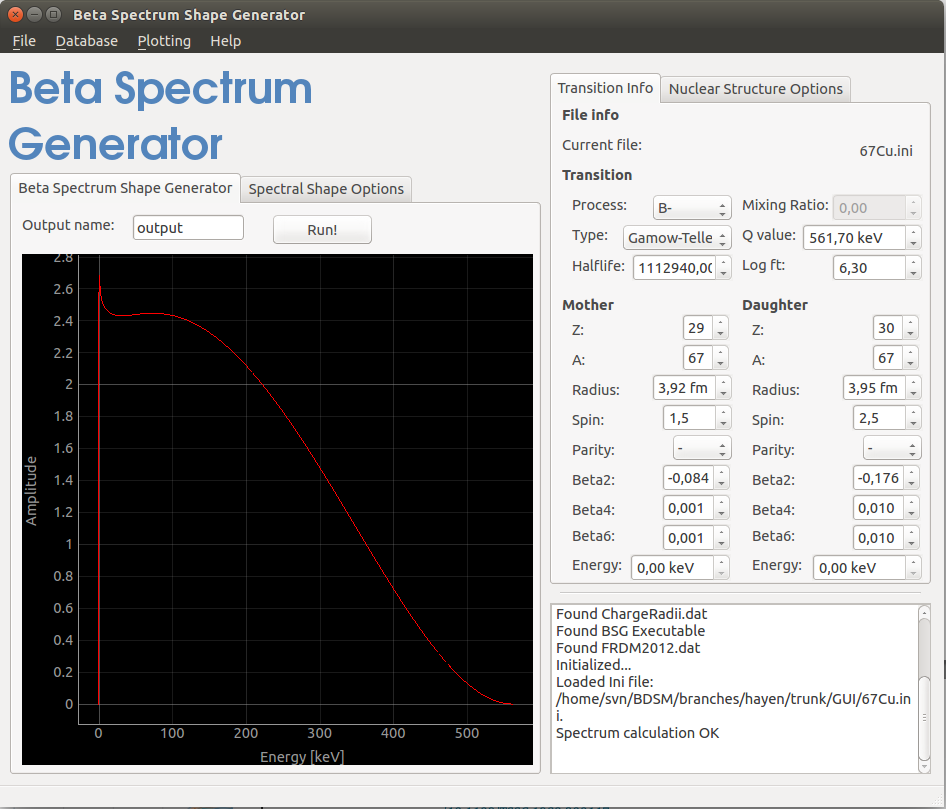
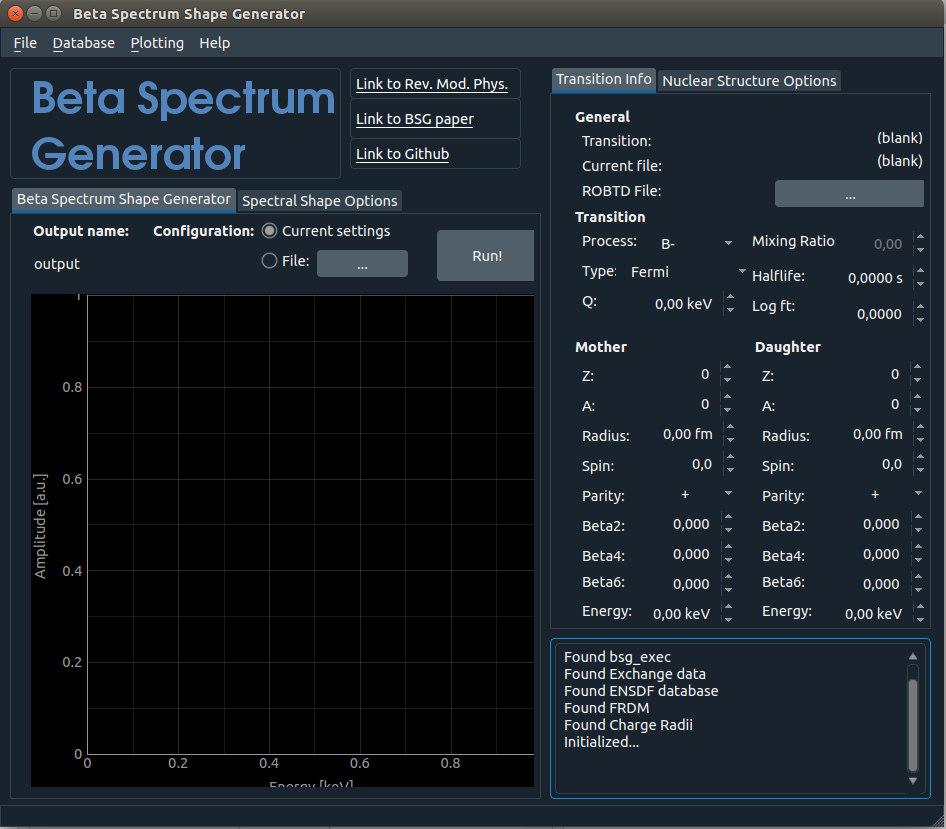
Bug fixes and general changes

diff --git a/source/executables/bsg_gui/bsg_gui/utils/utilities.py b/source/executables/bsg_gui/bsg_gui/utils/utilities.py
@@ -11,7 +11,7 @@ import ConfigParser
 
 ''' General variables and utility functions '''
 
-atoms = ['H', 'He', 'Li', 'Be', 'B', 'C', 'N', 'O', 'F', 'Ne', 'Na', 'Mg', 'Al', 'Si', 'P', 'S', 'Cl', 'Ar', 'K', 'Ca',
+atoms = ['Nn', 'H', 'He', 'Li', 'Be', 'B', 'C', 'N', 'O', 'F', 'Ne', 'Na', 'Mg', 'Al', 'Si', 'P', 'S', 'Cl', 'Ar', 'K', 'Ca',
          'Sc', 'Ti',
          'V', 'Cr', 'Mn', 'Fe', 'Co', 'Ni', 'Cu', 'Zn', 'Ga', 'Ge', 'As', 'Se', 'Br', 'Kr', 'Rb', 'Sr', 'Y', 'Zr', 'Nb',
          'Mo', 'Tc', 'Ru', 'Rh',
@@ -208,16 +208,16 @@ def getENSDFBetaBranches(filename, Z, A, state):
 
     """
     import ensdf
-
     logger = logging.getLogger(__name__)
 
-    daugtherNameBetaM = '%3s' % str(A) + atoms[Z].upper()
-    daughterNameBetaP = '%3s' % str(A) + atoms[Z-2].upper()
-    parentName = '%3s' % str(A) + atoms[Z - 1].upper()
+    daughterNameBetaM = '%3s' % str(A) + atoms[Z+1].upper()
+    daughterNameBetaP = '%3s' % str(A) + atoms[Z-1].upper()
+    parentName = '%3s' % str(A) + atoms[Z].upper()
 
     decays = ensdf.decays(filename)
     levels = ensdf.levels(filename)
     qvals = ensdf.qvalues(filename)
+
 
     levels = removeDuplicateLevels(levels)
 
@@ -244,9 +244,8 @@ def getENSDFBetaBranches(filename, Z, A, state):
     try:
         qBetaM, dqBetaM = [q[1:] for q in qvals if q[0] / 1000 == ZA][0]
     except IndexError:
-        print("IndexError on q value for %s Z%d A%d S%d %s" % (atoms[Z-1], Z, A, state, filename))
+        print("IndexError on q value for %s Z%d A%d S%d %s" % (atoms[Z], Z, A, state, filename))
         return 0., list()
-
     if dqBetaM is None:
         dqBetaM = 0.
 
@@ -267,14 +266,13 @@ def getENSDFBetaBranches(filename, Z, A, state):
                     qBetaM = d[5]
                 else:
                     qBetaP = d[5]
-
     for cd in correctDecays:
         for l in levels:
             try:
                 # Level is equal to daughter level from correct decays
                 if l[0] == cd[1]:
                     q, dq = (qBetaM, dqBetaM) if l[0] > cd[0] else (qBetaP, dqBetaP)
-                    name = daugtherNameBetaM if l[0] > cd[0] else daughterNameBetaP
+                    name = daughterNameBetaM if l[0] > cd[0] else daughterNameBetaP
                     BR, dBR, logft = cd[4:7]
 
                     if BR == None:

diff --git a/source/nme/src/NuclearStructureManager.cc b/source/nme/src/NuclearStructureManager.cc
@@ -205,18 +205,19 @@ bool NS::NuclearStructureManager::BuildDensityMatrixFromFile(
   else {
     std::vector<std::vector<std::string> > dataList = GeneralUtilities::GetCSVData(filename, ",");
     for (auto const& line : dataList) {
-      if (line.size() < 7) {
+      if (line.size() < 8) {
         consoleLogger->error("Density Matrix File {} incomplete! Aborting.",
                              filename);
         exit(EXIT_FAILURE);
       }
-      int djf = atoi(line[0].c_str());
-      int nf = atoi(line[1].c_str());
-      int lf = atoi(line[2].c_str());
-      int dji = atoi(line[3].c_str());
-      int ni = atoi(line[4].c_str());
-      int li = atoi(line[5].c_str());
-      double obdme = atof(line[6].c_str());
+      int dJ = atoi(line[0].c_str());
+      int djf = atoi(line[1].c_str());
+      int nf = atoi(line[2].c_str());
+      int lf = atoi(line[3].c_str());
+      int dji = atoi(line[4].c_str());
+      int ni = atoi(line[5].c_str());
+      int li = atoi(line[6].c_str());
+      double obdme = atof(line[7].c_str());
       WFComp fW = {1.0, nf, lf, std::abs(djf) - 2 * lf};
       WFComp iW = {1.0, ni, li, std::abs(dji) - 2 * li};
       std::vector<WFComp> fComps = {fW};
@@ -225,8 +226,7 @@ bool NS::NuclearStructureManager::BuildDensityMatrixFromFile(
                                   -betaType, 0.0, fComps};
       SingleParticleState spsi = {mother.dJ, -1, sign(mother.dJ), li, ni, 0,
                                   betaType, 0.0, iComps};
-      //TODO
-      AddReducedOneBodyTransitionDensity(1, obdme, dji, djf, spsi, spsf);
+      AddReducedOneBodyTransitionDensity(dJ, obdme, dji, djf, spsi, spsf);
     }
   }
   debugFileLogger->debug("Leaving BuildDensityMatrixFromFile");
@@ -332,6 +332,8 @@ void NS::NuclearStructureManager::GetESPStates(SingleParticleState& spsi,
   }
 
   double threshold = GetNMEOpt(double, Computational.EnergyMargin);
+
+  debugFileLogger->debug("Threshold: {} MeV", threshold);
 
   debugFileLogger->debug("Found all spin constants");
 

diff --git a/source/executables/bsg_gui/bsg_gui/bsg_gui.py b/source/executables/bsg_gui/bsg_gui/bsg_gui.py
@@ -312,7 +312,7 @@ class BSG_UI(QtGui.QMainWindow):
         import re
         A = int(re.findall(r'\d+', isotope)[0])
         name = isotope.replace(str(A), '').capitalize()
-        Z = ut.atoms.index(name)+1
+        Z = ut.atoms.index(name)
 
         self.ui.sb_AM.setValue(A)
         self.ui.sb_ZM.setValue(Z)
@@ -355,12 +355,13 @@ class BSG_UI(QtGui.QMainWindow):
                 self.ensdfFolder = None
                 return
         fullPath = self.ensdfFolder + '/ensdf.{:03d}'.format(A)
-
+        print(fullPath)
         bbs = ut.getENSDFBetaBranches(str(fullPath), Z, A, 0)
+        print(bbs)
         items = []
         for i in bbs:
-            s = '{}: {}{} ([{}] {}) -> {}{} ([{}] {}); Endpoint: {} keV, t1/2: {:.3f} s'.format(i.process, A, ut.atoms[Z-1], i.motherLevel.Jpi, i.motherLevel.E,\
-            A, ut.atoms[Z if i.process == 'B-' else Z-2], i.daughterLevel.Jpi, i.daughterLevel.E, i.E, i.partialHalflife)
+            s = '{}: {}{} ([{}] {}) -> {}{} ([{}] {}); Endpoint: {} keV, t1/2: {:.3f} s'.format(i.process, A, ut.atoms[Z], i.motherLevel.Jpi, i.motherLevel.E,\
+            A, ut.atoms[Z+1 if i.process == 'B-' else Z-1], i.daughterLevel.Jpi, i.daughterLevel.E, i.E, i.partialHalflife)
 
             items.append(s)
 
@@ -428,8 +429,8 @@ class BSG_UI(QtGui.QMainWindow):
         JpiM += self.ui.cb_PiM.currentText()
         JpiD = str(int(self.ui.dsb_JD.value())) if self.ui.dsb_JD.value() % 1 == 0. else str(int(2*self.ui.dsb_JD.value())) + '/2'
         JpiD += self.ui.cb_PiD.currentText()
-        s = '{}{} ([{}] {}) -> {}{} ([{}] {})'.format(Am, ut.atoms[Zm-1],
-        JpiM, self.ui.dsb_motherEn.value(), Ad, ut.atoms[Zd-1],
+        s = '{}{} ([{}] {}) -> {}{} ([{}] {})'.format(Am, ut.atoms[Zm],
+        JpiM, self.ui.dsb_motherEn.value(), Ad, ut.atoms[Zd],
         JpiD, self.ui.dsb_daughterEn.value())
         self.ui.l_transitionName.setText(s)
         self.ui.l_transitionName.setToolTip(s)

diff --git a/source/executables/bsg_gui/bsg_gui/utils/ensdf.py b/source/executables/bsg_gui/bsg_gui/utils/ensdf.py
@@ -8,7 +8,7 @@ import re
 import sys
 import copy
 from collections import defaultdict
-from pyneUtils import time_conv_dict, to_id, id_from_level
+from pyneUtils import time_conv_dict
 from warnings import warn
 
 from utilities import atoms
@@ -61,6 +61,29 @@ def _getvalue(obj, fn=float, rn=None):
         return fn(x)
     except ValueError:
         return rn
+
+def to_id(nuc):
+    nuc = nuc.strip()
+    n = _nucleus.match(nuc)
+    nucid = 0
+    if n:
+        A = int(n.group(1))
+        Z = int(atoms.index(n.group(2).capitalize()))
+        nucid = (1000 * Z + A) * 1000
+    return nucid
+
+def id_from_level(nuc, level, levellist, special=' '):
+    nostate = int(nuc / 1000) * 1000
+    if not levellist:
+        return None
+    ret_id = nuc
+    minDif = 1e9
+    for l in levellist:
+        if int(l[0] / 1000 ) * 1000 == nostate:
+             if abs(l[5] - level) < minDif and special == l[-1]:
+                 minDif = abs(l[5] - level)
+                 ret_id = l[0]
+    return ret_id
 
 # Energy to half-life conversion:  T1/2= ln(2) x (h/2 pi) / energy
 # See http://www.nndc.bnl.gov/nudat2/help/glossary.jsp#halflife

diff --git a/source/nme/include/NilssonOrbits.h b/source/nme/include/NilssonOrbits.h
@@ -807,6 +807,8 @@ inline SingleParticleState CalculateDeformedSPState(int Z, int N, int A, int dJ,
     index = (Z + N - 1) / 2;
     if (threshold > 0) {
       double refEnergy = allStates[index].energy;
+      spdlog::get("nme_results_file")->info("Estimated reference state: {}/2 ({} MeV)", allStates[index].parity * allStates[index].dO,
+      allStates[index].energy);
       index = 0;
       for (int i = 0; i < allStates.size(); i++) {
         if (std::abs(refEnergy - allStates[i].energy) <= threshold) {
@@ -818,8 +820,9 @@ inline SingleParticleState CalculateDeformedSPState(int Z, int N, int A, int dJ,
         }
       }
       if (index == 0) {
+        index = (Z + N - 1) / 2;
         spdlog::get("console")->warn(
-            "ERROR: Couldn't find a correct spin state within the threshold.");
+            "WARNING: Couldn't find a correct spin state within the threshold.");
       }
     }
   }

diff --git a/source/executables/bsg_gui/bsg_gui/utils/pyneUtils.py b/source/executables/bsg_gui/bsg_gui/utils/pyneUtils.py
@@ -46,26 +46,3 @@ time_conv_dict = {'as': 1e-18,
                   'century': 86400.0*365.25*100,
                   'centuries': 86400.0*365.25*100,
                   }
-
-def to_id(nuc):
-    nuc = nuc.strip()
-    n = _nucleus.match(nuc)
-    nucid = 0
-    if n:
-        A = int(n.group(1))
-        Z = int(atoms.index(n.group(2).capitalize()))+1
-        nucid = (1000 * Z + A) * 1000
-    return nucid
-
-def id_from_level(nuc, level, levellist, special=' '):
-    nostate = int(nuc / 1000) * 1000
-    if not levellist:
-        return None
-    ret_id = nuc
-    minDif = 1e9
-    for l in levellist:
-        if int(l[0] / 1000 ) * 1000 == nostate:
-             if abs(l[5] - level) < minDif and special == l[-1]:
-                 minDif = abs(l[5] - level)
-                 ret_id = l[0]
-    return ret_id

diff --git a/source/bsg/src/Generator.cc b/source/bsg/src/Generator.cc
@@ -530,6 +530,11 @@ void Generator::PrepareOutputFile() {
   l->info("Q Value: {} keV\tEffective endpoint energy: {}", QValue, (W0-1.)*ELECTRON_MASS_KEV);
   l->info("Process: {}\tType: {}", GetBSGOpt(std::string, Transition.Process), GetBSGOpt(std::string, Transition.Type));
   if (mixingRatio != 0) l->info("Mixing ratio: {}", mixingRatio);
+
+  // double BGT = fc1*fc1/(std::abs(motherSpinParity)+1)
+  // double kappa = 6147.; // The combination of constants for the ft value in s
+  // double ftTheory = std::log10(kappa/BGT);
+  // l->info("");
   if (OptExists(Transition.PartialHalflife)) {
     l->info("Partial halflife: {} s", GetBSGOpt(double, Transition.PartialHalflife));
     l->info("Calculated log ft value: {}", CalculateLogFtValue(GetBSGOpt(double, Transition.PartialHalflife)));

diff --git a/source/bsg/include/Constants.h b/source/bsg/include/Constants.h
@@ -9,7 +9,7 @@ const double HBAR = 6.58211889e-16;       /**< reduced Planck's constant in unit
 const double SPEED_OF_LIGHT = 299792458.0;  /**< the speed of light in m/s */
 const double PION_MASS_KEV = 134976.6; /**< the pion rest mass in unuts in keV */
 
-const double NATURAL_LENGTH = HBAR * SPEED_OF_LIGHT / 1e3 / ELECTRON_MASS_KEV; /**< the beta decay natural length scale using HBAR=c=m_e=1 */
+const double NATURAL_LENGTH = HBAR * SPEED_OF_LIGHT / 1e3 / ELECTRON_MASS_KEV; /**< the beta decay natural length scale using HBAR=c=m_e=1 3.861592643659598e-13 m*/
 
 const double ALPHA = 0.0072973525664; /**< the fine-structure constant */
 const double EULER_MASCHERONI_CONSTANT = 0.577215664901532;  /**< the Euler-Mascheroni constant */

diff --git a/source/executables/bsg_gui/bsg_gui/ui/MainWindowGUI.py b/source/executables/bsg_gui/bsg_gui/ui/MainWindowGUI.py
@@ -2,7 +2,7 @@
 
 # Form implementation generated from reading ui file 'MainWindow.ui'
 #
-# Created: Mon Nov 26 12:43:38 2018
+# Created: Fri Feb  8 14:32:37 2019
 #      by: pyside-uic 0.2.15 running on PySide 1.2.4
 #
 # WARNING! All changes made in this file will be lost!
@@ -249,6 +249,7 @@ class Ui_MainWindow(object):
         self.dsb_Q = QtGui.QDoubleSpinBox(self.groupBox)
         self.dsb_Q.setGeometry(QtCore.QRect(30, 90, 141, 27))
         self.dsb_Q.setAlignment(QtCore.Qt.AlignRight|QtCore.Qt.AlignTrailing|QtCore.Qt.AlignVCenter)
+        self.dsb_Q.setDecimals(4)
         self.dsb_Q.setMaximum(20000.0)
         self.dsb_Q.setObjectName("dsb_Q")
         self.label_30 = QtGui.QLabel(self.groupBox)

diff --git a/docs/source/installation.rst b/docs/source/installation.rst
@@ -3,6 +3,8 @@ Installation & Dependencies
 
 Both libraries are built using CMake_.
 
+Databases used in the graphial user interface can be downloaded automatically through the CMake script. See the options.
+
 .. _CMake: https://cmake.org/
 
 Dependencies - C++ Libraries
@@ -30,7 +32,7 @@ Additional notes
 
    sudo apt-get install libboost-program-options-dev
 
-Installation was tested with ROOT version 6, though no problems should occur with previous versions
+- Installation was tested with ROOT version 6, though no problems should occur with previous versions
 
 - Installing spdlog through your package manager may install an outdated version. Please use the source code on github.
 
@@ -45,18 +47,22 @@ In order to use the Python GUI, one requires
 - PySide_ python-Qt bindings
 - PyQtGraph_
 - shell_
+- The QDarkStyle_ style sheet (optional)
 
 .. _NumPy: http://www.numpy.org/
 .. _Qt4: http://doc.qt.io/archives/qt-4.8/
 .. _PySide: http://wiki.qt.io/PySide
 .. _PyQtGraph: http://www.pyqtgraph.org/
 .. _shell: https://pypi.python.org/pypi/shell/1.0.1
+.. _QDarkStyle: https://github.com/ColinDuquesnoy/QDarkStyleSheet
 
-all of these can be installed using ``pip``
+all of these can be installed using ``pip`` using the requirements file provided. All of this is performed automatically when using CMake.
 
 .. code-block:: bash
 
-   sudo pip install numpy pyside pyqtgraph shell
+   sudo pip install -r requirements.txt
+
+Note that support for Qt5 is possible, using PySide 2 to convert the MainWindow.ui file into Qt5-friendly code, and installing the github version of pyqtgraph.
 
 Installation
 ------------
@@ -82,7 +88,19 @@ Installation is optional, and can be run using
 
 This may require sudo privileges.
 
-Compiled libraries and executables can be found in the corresponding directories.
+Compiled libraries and binaries can be found in the corresponding directories.
+
+For smooth use of the GUI, the following paths can be defined in your ``.bashrc``:
+
+- ``BSGPATH``: absolute path to the compiled ``bsg_exec`` executable.
+- ``BSGEXCHANGEPATH``: absolute path to the ``ExchangeData.dat`` file.
+- ``ENSDFDIR``: absolute path to the full ENSDF_ library, downloaded using cmake if the option is enabled
+- ``FRDMPATH``: absolute path to the FRDM_ library, downloaded using cmake if the option is enabled
+- ``CHARGERADIIPATH``: absolute path to the ChargeRadii_ library, downloaded using cmake if the option is enabled
+
+.. _ENSDF: https://www.nndc.bnl.gov/ensarchivals/
+.. _FRDM: https://www.sciencedirect.com/science/article/pii/S0092640X1600005X
+.. _ChargeRadii: https://journals.aps.org/prc/abstract/10.1103/PhysRevC.94.064315
 
 Execution
 =========
